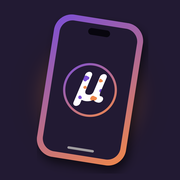
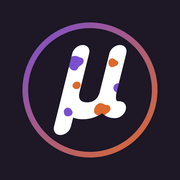
MILKeX Mobile 1.1.3

Changed region(s): [[0.1111, 0.0556, 0.8889, 0.9444]]

diff --git a/index.html b/index.html
@@ -9,20 +9,20 @@
 <meta name="apple-mobile-web-app-status-bar-style" content="black-translucent">
 <meta name="apple-mobile-web-app-title" content="MILKeX Mobile">
 <title>MILKeX Mobile</title>
-<link rel="manifest" href="manifest.webmanifest?v=1.1.2"><link rel="apple-touch-icon" href="icon-180.png?v=1.1.2"><link rel="icon" href="favicon.png?v=1.1.2">
+<link rel="manifest" href="manifest.webmanifest?v=1.1.3"><link rel="apple-touch-icon" href="icon-180.png?v=1.1.3"><link rel="icon" href="favicon.png?v=1.1.3">
 <script>
 // in locale (anteprima dentro MILKeX) i file condivisi stanno nella cartella principale; su GitHub Pages accanto all'app
 window.ROOT = location.pathname.startsWith("/mobile/") ? "/" : "./";
 document.write('<link rel="stylesheet" href="' + ROOT + 'common.css">');
 </script>
-<link rel="stylesheet" href="app.css?v=1.1.2">
+<link rel="stylesheet" href="app.css?v=1.1.3">
 </head>
 <body>
-<div id="splash"><div class="sp-drop"><svg class="sp-logo" viewBox="0 0 256 256" aria-hidden="true"><defs><style>.lg-fly{display:none}</style><linearGradient id="mxg" x1="0" y1="0" x2="1" y2="1"><stop offset="0" stop-color="#7b4fd6"/><stop offset="1" stop-color="#f0884a"/></linearGradient><linearGradient id="mxr" x1="0" y1="0" x2="1" y2="1" gradientTransform="rotate(90 .5 .5)"><stop offset="0" stop-color="#7b4fd6"/><stop offset="1" stop-color="#f0884a"/></linearGradient><mask id="mxm"><g transform="translate(0 -11) translate(128 128) skewX(-14) translate(-128 -128)" fill="none" stroke="#fff" stroke-width="30" stroke-linecap="round" stroke-linejoin="round"><path d="M98 74V204"/><path d="M98 116v26c0 22 14 34 33 34s33-12 33-34V74"/><path d="M164 140c0 22 7 34 24 34"/></g></mask></defs><circle cx="128" cy="128" r="122" fill="#231a36"/><circle class="lg-ring" cx="128" cy="128" r="115" fill="none" stroke="url(#mxr)" stroke-width="10" pathLength="1" transform="rotate(-90 128 128)"/><g class="lg-fly"><g class="fly f1" style="--fx:-153px;--fy:-136px;--d:0.70s"><text class="sym" x="101" y="81" text-anchor="middle" dominant-baseline="central" fill="#c4a8ff" font-family="Cambria Math,Cambria,Times New Roman,serif" font-style="italic" font-size="58">ħ</text><path class="blob" fill="#7b4fd6" transform="translate(101 81) scale(.62) translate(-101 -92)" d="M84 80c6-10 18-12 26-8 8 4 14 2 16 10 2 9-6 14-12 18-6 4-4 12-14 12-10 0-14-8-18-14-4-6-4-12 2-18z"/></g><g class="fly f2" style="--fx:136px;--fy:153px;--d:0.87s"><text class="sym" x="150" y="163" text-anchor="middle" dominant-baseline="central" fill="#ffb889" font-family="Cambria Math,Cambria,Times New Roman,serif" font-style="italic" font-size="58">∑</text><path class="blob" fill="#f0884a" transform="translate(150 163) scale(.62) translate(-150 -174)" d="M132 162c6-8 16-8 22-4 6 4 14 0 18 8 4 8-2 14-8 18-6 4-10 10-20 8-10-2-18-6-18-14 0-6 2-10 6-16z"/></g><g class="fly f3" style="--fx:153px;--fy:-136px;--d:1.04s"><text class="sym" x="169" y="81" text-anchor="middle" dominant-baseline="central" fill="#ffb889" font-family="Cambria Math,Cambria,Times New Roman,serif" font-style="italic" font-size="58">π</text><path class="blob" fill="#f0884a" transform="translate(169 81) scale(.62) translate(-169 -92)" d="M158 82c4-6 12-6 16-2 4 4 10 4 10 10 0 6-6 8-10 10-4 2-10 4-14 0-4-4-6-12-2-18z"/></g><g class="fly f4" style="--fx:-153px;--fy:136px;--d:1.21s"><text class="sym" x="88" y="168" text-anchor="middle" dominant-baseline="central" fill="#c4a8ff" font-family="Cambria Math,Cambria,Times New Roman,serif" font-style="italic" font-size="58">∫</text><path class="blob" fill="#7b4fd6" transform="translate(88 168) scale(.62) translate(-88 -179)" d="M80 170c4-6 12-6 16-2 4 4 8 8 6 14-2 6-8 8-14 8-6 0-10-6-10-10 0-4-2-6 2-10z"/></g><g class="fly f5" style="--fx:170px;--fy:17px;--d:1.38s"><text class="sym" x="176" y="126" text-anchor="middle" dominant-baseline="central" fill="#c4a8ff" font-family="Cambria Math,Cambria,Times New Roman,serif" font-style="italic" font-size="58">α</text><path class="blob" fill="#7b4fd6" transform="translate(176 126) scale(1.25) translate(-176 -137)" d="M172 132c3-4 9-4 11 0 2 4 0 9-5 10-5 1-9-5-6-10z"/></g><g class="fly f6" style="--fx:-170px;--fy:0px;--d:1.55s"><text class="sym" x="105" y="120" text-anchor="middle" dominant-baseline="central" fill="#ffb889" font-family="Cambria Math,Cambria,Times New Roman,serif" font-style="italic" font-size="58">∇</text><path class="blob" fill="#f0884a" transform="translate(105 120) scale(1.25) translate(-105 -131)" d="M100 128c3-4 9-3 10 1 1 4-3 8-7 7-4-1-6-5-3-8z"/></g></g><g class="lg-mu"><g transform="translate(0 -11) translate(128 128) skewX(-14) translate(-128 -128)" fill="none" stroke="#fff" stroke-width="30" stroke-linecap="round" stroke-linejoin="round"><path d="M98 74V204"/><path d="M98 116v26c0 22 14 34 33 34s33-12 33-34V74"/><path d="M164 140c0 22 7 34 24 34"/></g></g><g class="lg-spots" mask="url(#mxm)"><path class="spot s1" fill="#7b4fd6" transform="translate(101 81) scale(.62) translate(-101 -92)" d="M84 80c6-10 18-12 26-8 8 4 14 2 16 10 2 9-6 14-12 18-6 4-4 12-14 12-10 0-14-8-18-14-4-6-4-12 2-18z"/><path class="spot s2" fill="#f0884a" transform="translate(150 163) scale(.62) translate(-150 -174)" d="M132 162c6-8 16-8 22-4 6 4 14 0 18 8 4 8-2 14-8 18-6 4-10 10-20 8-10-2-18-6-18-14 0-6 2-10 6-16z"/><path class="spot s3" fill="#f0884a" transform="translate(169 81) scale(.62) translate(-169 -92)" d="M158 82c4-6 12-6 16-2 4 4 10 4 10 10 0 6-6 8-10 10-4 2-10 4-14 0-4-4-6-12-2-18z"/><path class="spot s4" fill="#7b4fd6" transform="translate(88 168) scale(.62) translate(-88 -179)" d="M80 170c4-6 12-6 16-2 4 4 8 8 6 14-2 6-8 8-14 8-6 0-10-6-10-10 0-4-2-6 2-10z"/><path class="spot s5" fill="#7b4fd6" transform="translate(176 126) scale(1.25) translate(-176 -137)" d="M172 132c3-4 9-4 11 0 2 4 0 9-5 10-5 1-9-5-6-10z"/><path class="spot s6" fill="#f0884a" transform="translate(105 120) scale(1.25) translate(-105 -131)" d="M100 128c3-4 9-3 10 1 1 4-3 8-7 7-4-1-6-5-3-8z"/></g></svg><span class="sp-ripple"></span></div><div class="sp-name">MIL<span class="lxk">K</span><span class="lxe">e</span>X</div><div class="sp-sub">Mobile</div><div class="sp-bar"><i></i></div></div>
+<div id="splash"><div class="sp-drop"><svg class="sp-logo" viewBox="0 0 256 256" aria-hidden="true"><defs><style>.lg-fly{display:none}</style><linearGradient id="mxg" x1="0" y1="0" x2="1" y2="1"><stop offset="0" stop-color="#7a4fd0"/><stop offset="1" stop-color="#db6a2c"/></linearGradient><linearGradient id="mxr" x1="0" y1="0" x2="1" y2="1" gradientTransform="rotate(90 .5 .5)"><stop offset="0" stop-color="#7a4fd0"/><stop offset="1" stop-color="#db6a2c"/></linearGradient><mask id="mxm"><g transform="translate(0 -11) translate(128 128) skewX(-14) translate(-128 -128)" fill="none" stroke="#fff" stroke-width="30" stroke-linecap="round" stroke-linejoin="round"><path d="M98 74V204"/><path d="M98 116v26c0 22 14 34 33 34s33-12 33-34V74"/><path d="M164 140c0 22 7 34 24 34"/></g></mask></defs><circle cx="128" cy="128" r="122" fill="#1d1726"/><circle class="lg-ring" cx="128" cy="128" r="115" fill="none" stroke="url(#mxr)" stroke-width="10" pathLength="1" transform="rotate(-90 128 128)"/><g class="lg-fly"><g class="fly f1" style="--fx:-153px;--fy:-136px;--d:0.70s"><text class="sym" x="101" y="81" text-anchor="middle" dominant-baseline="central" fill="#a184ec" font-family="Cambria Math,Cambria,Times New Roman,serif" font-style="italic" font-size="58">ħ</text><path class="blob" fill="#7a4fd0" transform="translate(101 81) scale(.62) translate(-101 -92)" d="M84 80c6-10 18-12 26-8 8 4 14 2 16 10 2 9-6 14-12 18-6 4-4 12-14 12-10 0-14-8-18-14-4-6-4-12 2-18z"/></g><g class="fly f2" style="--fx:136px;--fy:153px;--d:0.87s"><text class="sym" x="150" y="163" text-anchor="middle" dominant-baseline="central" fill="#f2914f" font-family="Cambria Math,Cambria,Times New Roman,serif" font-style="italic" font-size="58">∑</text><path class="blob" fill="#db6a2c" transform="translate(150 163) scale(.62) translate(-150 -174)" d="M132 162c6-8 16-8 22-4 6 4 14 0 18 8 4 8-2 14-8 18-6 4-10 10-20 8-10-2-18-6-18-14 0-6 2-10 6-16z"/></g><g class="fly f3" style="--fx:153px;--fy:-136px;--d:1.04s"><text class="sym" x="169" y="81" text-anchor="middle" dominant-baseline="central" fill="#f2914f" font-family="Cambria Math,Cambria,Times New Roman,serif" font-style="italic" font-size="58">π</text><path class="blob" fill="#db6a2c" transform="translate(169 81) scale(.62) translate(-169 -92)" d="M158 82c4-6 12-6 16-2 4 4 10 4 10 10 0 6-6 8-10 10-4 2-10 4-14 0-4-4-6-12-2-18z"/></g><g class="fly f4" style="--fx:-153px;--fy:136px;--d:1.21s"><text class="sym" x="88" y="168" text-anchor="middle" dominant-baseline="central" fill="#a184ec" font-family="Cambria Math,Cambria,Times New Roman,serif" font-style="italic" font-size="58">∫</text><path class="blob" fill="#7a4fd0" transform="translate(88 168) scale(.62) translate(-88 -179)" d="M80 170c4-6 12-6 16-2 4 4 8 8 6 14-2 6-8 8-14 8-6 0-10-6-10-10 0-4-2-6 2-10z"/></g><g class="fly f5" style="--fx:170px;--fy:17px;--d:1.38s"><text class="sym" x="176" y="126" text-anchor="middle" dominant-baseline="central" fill="#a184ec" font-family="Cambria Math,Cambria,Times New Roman,serif" font-style="italic" font-size="58">α</text><path class="blob" fill="#7a4fd0" transform="translate(176 126) scale(1.25) translate(-176 -137)" d="M172 132c3-4 9-4 11 0 2 4 0 9-5 10-5 1-9-5-6-10z"/></g><g class="fly f6" style="--fx:-170px;--fy:0px;--d:1.55s"><text class="sym" x="105" y="120" text-anchor="middle" dominant-baseline="central" fill="#f2914f" font-family="Cambria Math,Cambria,Times New Roman,serif" font-style="italic" font-size="58">∇</text><path class="blob" fill="#db6a2c" transform="translate(105 120) scale(1.25) translate(-105 -131)" d="M100 128c3-4 9-3 10 1 1 4-3 8-7 7-4-1-6-5-3-8z"/></g></g><g class="lg-mu"><g transform="translate(0 -11) translate(128 128) skewX(-14) translate(-128 -128)" fill="none" stroke="#fff" stroke-width="30" stroke-linecap="round" stroke-linejoin="round"><path d="M98 74V204"/><path d="M98 116v26c0 22 14 34 33 34s33-12 33-34V74"/><path d="M164 140c0 22 7 34 24 34"/></g></g><g class="lg-spots" mask="url(#mxm)"><path class="spot s1" fill="#7a4fd0" transform="translate(101 81) scale(.62) translate(-101 -92)" d="M84 80c6-10 18-12 26-8 8 4 14 2 16 10 2 9-6 14-12 18-6 4-4 12-14 12-10 0-14-8-18-14-4-6-4-12 2-18z"/><path class="spot s2" fill="#db6a2c" transform="translate(150 163) scale(.62) translate(-150 -174)" d="M132 162c6-8 16-8 22-4 6 4 14 0 18 8 4 8-2 14-8 18-6 4-10 10-20 8-10-2-18-6-18-14 0-6 2-10 6-16z"/><path class="spot s3" fill="#db6a2c" transform="translate(169 81) scale(.62) translate(-169 -92)" d="M158 82c4-6 12-6 16-2 4 4 10 4 10 10 0 6-6 8-10 10-4 2-10 4-14 0-4-4-6-12-2-18z"/><path class="spot s4" fill="#7a4fd0" transform="translate(88 168) scale(.62) translate(-88 -179)" d="M80 170c4-6 12-6 16-2 4 4 8 8 6 14-2 6-8 8-14 8-6 0-10-6-10-10 0-4-2-6 2-10z"/><path class="spot s5" fill="#7a4fd0" transform="translate(176 126) scale(1.25) translate(-176 -137)" d="M172 132c3-4 9-4 11 0 2 4 0 9-5 10-5 1-9-5-6-10z"/><path class="spot s6" fill="#db6a2c" transform="translate(105 120) scale(1.25) translate(-105 -131)" d="M100 128c3-4 9-3 10 1 1 4-3 8-7 7-4-1-6-5-3-8z"/></g></svg><span class="sp-ripple"></span></div><div class="sp-name">MIL<span class="lxk">K</span><span class="lxe">e</span>X</div><div class="sp-sub">Mobile</div><div class="sp-bar"><i></i></div></div>
 <script>document.write('<script src="' + ROOT + 'milk-splash.js"><\/script>');</script>
 <div id="app"></div>
 <div id="logoTpl" hidden></div>
 <script>document.write('<script src="' + ROOT + 'icons.js"><\/script><script src="' + ROOT + 'vendor/pdfjs/pdf.min.js"><\/script>');</script>
-<script src="app.js?v=1.1.2"></script>
+<script src="app.js?v=1.1.3"></script>
 </body>
 </html>

diff --git a/milk-splash.js b/milk-splash.js
@@ -14,7 +14,8 @@
   css.textContent = `
 #splash{background:${dark ? "radial-gradient(ellipse 70% 50% at 70% 0%,rgba(122,79,208,.18),transparent 70%),#100c1b" : "#f6f1e8"}!important;color:${dark ? "#efeaf8" : "#1d1726"}!important}
 #splash .sp-drop{width:240px!important;height:240px!important;margin-bottom:10px!important}
-#splash .sp-drop>svg,#splash .sp-drop::before,#splash .sp-ripple,#splash .sp-drip{display:none!important}
+#splash .sp-drop::before,#splash .sp-ripple,#splash .sp-drip{display:none!important}
+#splash .sp-drop>svg{position:absolute!important;width:0!important;height:0!important;visibility:hidden!important;animation:none!important}
 #splash canvas.spc{position:fixed;inset:0;width:100vw;height:100vh;z-index:0;pointer-events:none}
 #splash>*:not(canvas){position:relative;z-index:1}
 #splash .sp-name{font-family:"Geist",system-ui,sans-serif;font-weight:600!important;font-size:36px!important;letter-spacing:-.01em!important;color:inherit!important;animation:spcUp .7s cubic-bezier(.2,.8,.2,1) 1.35s both!important}
@@ -35,12 +36,12 @@ ${still ? "#splash *{animation:none!important}#splash .sp-name,#splash .sp-sub,#
 
   // ---------- il logo, disegnato una volta su un canvas a parte ----------
   const MU = ["M98 74V204", "M98 116v26c0 22 14 34 33 34s33-12 33-34V74", "M164 140c0 22 7 34 24 34"].map(d => new Path2D(d));
-  const SPOTS = [["#7b4fd6", 101, 81, .62, 92, "M84 80c6-10 18-12 26-8 8 4 14 2 16 10 2 9-6 14-12 18-6 4-4 12-14 12-10 0-14-8-18-14-4-6-4-12 2-18z"],
-    ["#f0884a", 150, 163, .62, 174, "M132 162c6-8 16-8 22-4 6 4 14 0 18 8 4 8-2 14-8 18-6 4-10 10-20 8-10-2-18-6-18-14 0-6 2-10 6-16z"],
-    ["#f0884a", 169, 81, .62, 92, "M158 82c4-6 12-6 16-2 4 4 10 4 10 10 0 6-6 8-10 10-4 2-10 4-14 0-4-4-6-12-2-18z"],
-    ["#7b4fd6", 88, 168, .62, 179, "M80 170c4-6 12-6 16-2 4 4 8 8 6 14-2 6-8 8-14 8-6 0-10-6-10-10 0-4-2-6 2-10z"],
-    ["#7b4fd6", 176, 126, 1.25, 137, "M172 132c3-4 9-4 11 0 2 4 0 9-5 10-5 1-9-5-6-10z"],
-    ["#f0884a", 105, 120, 1.25, 131, "M100 128c3-4 9-3 10 1 1 4-3 8-7 7-4-1-6-5-3-8z"]].map(([c, x, y, s, y2, d]) => ({ c, x, y, s, y2, p: new Path2D(d) }));
+  const SPOTS = [["#7a4fd0", 101, 81, .62, 92, "M84 80c6-10 18-12 26-8 8 4 14 2 16 10 2 9-6 14-12 18-6 4-4 12-14 12-10 0-14-8-18-14-4-6-4-12 2-18z"],
+    ["#db6a2c", 150, 163, .62, 174, "M132 162c6-8 16-8 22-4 6 4 14 0 18 8 4 8-2 14-8 18-6 4-10 10-20 8-10-2-18-6-18-14 0-6 2-10 6-16z"],
+    ["#db6a2c", 169, 81, .62, 92, "M158 82c4-6 12-6 16-2 4 4 10 4 10 10 0 6-6 8-10 10-4 2-10 4-14 0-4-4-6-12-2-18z"],
+    ["#7a4fd0", 88, 168, .62, 179, "M80 170c4-6 12-6 16-2 4 4 8 8 6 14-2 6-8 8-14 8-6 0-10-6-10-10 0-4-2-6 2-10z"],
+    ["#7a4fd0", 176, 126, 1.25, 137, "M172 132c3-4 9-4 11 0 2 4 0 9-5 10-5 1-9-5-6-10z"],
+    ["#db6a2c", 105, 120, 1.25, 131, "M100 128c3-4 9-3 10 1 1 4-3 8-7 7-4-1-6-5-3-8z"]].map(([c, x, y, s, y2, d]) => ({ c, x, y, s, y2, p: new Path2D(d) }));
   const muT = g => { g.translate(0, -11); g.translate(128, 128); g.transform(1, 0, Math.tan(-14 * Math.PI / 180), 1, 0, 0); g.translate(-128, -128); };
   const L = document.createElement("canvas"); L.width = L.height = 512;
   (() => {
@@ -122,13 +123,13 @@ ${still ? "#splash *{animation:none!important}#splash .sp-name,#splash .sp-sub,#
       const pop = 1 + (1 - logoIn) * .06; ctx.translate(128, 128); ctx.scale(pop, pop); ctx.translate(-128, -128);
       ctx.globalAlpha = logoIn;
       if (dark) { ctx.shadowColor = "rgba(196,168,255,.6)"; ctx.shadowBlur = 40 + 10 * Math.sin(t * .003); }
-      ctx.fillStyle = dark ? "#231a36" : "#1d1726"; ctx.beginPath(); ctx.arc(128, 128, 122, 0, 6.283); ctx.fill();
+      ctx.fillStyle = "#1d1726"; ctx.beginPath(); ctx.arc(128, 128, 122, 0, 6.283); ctx.fill();
       ctx.shadowBlur = 0;
       ctx.drawImage(L, 0, 0, 256, 256);
       // anello del logo che si disegna
       const ring = sm((t - 1450) / 800);
       if (ring > 0) {
-        const g = ctx.createLinearGradient(0, 0, 0, 256); g.addColorStop(0, "#7b4fd6"); g.addColorStop(1, "#f0884a");
+        const g = ctx.createLinearGradient(0, 0, 256, 256); g.addColorStop(0, "#7a4fd0"); g.addColorStop(1, "#db6a2c");
         ctx.strokeStyle = g; ctx.lineWidth = 10; ctx.lineCap = "round"; ctx.beginPath(); ctx.arc(128, 128, 115, -Math.PI / 2, -Math.PI / 2 + ring * 6.283); ctx.stroke();
       }
       ctx.restore();
